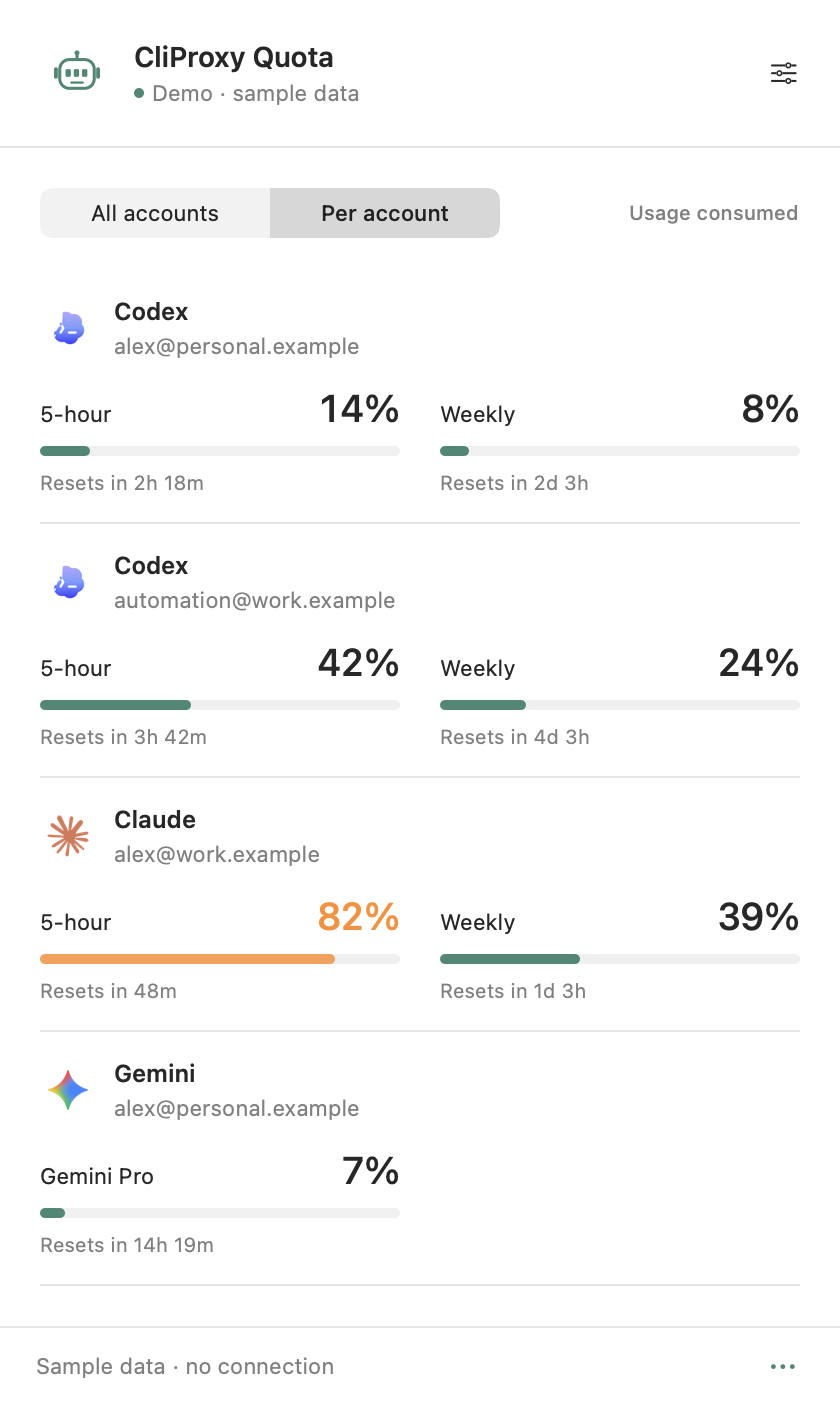
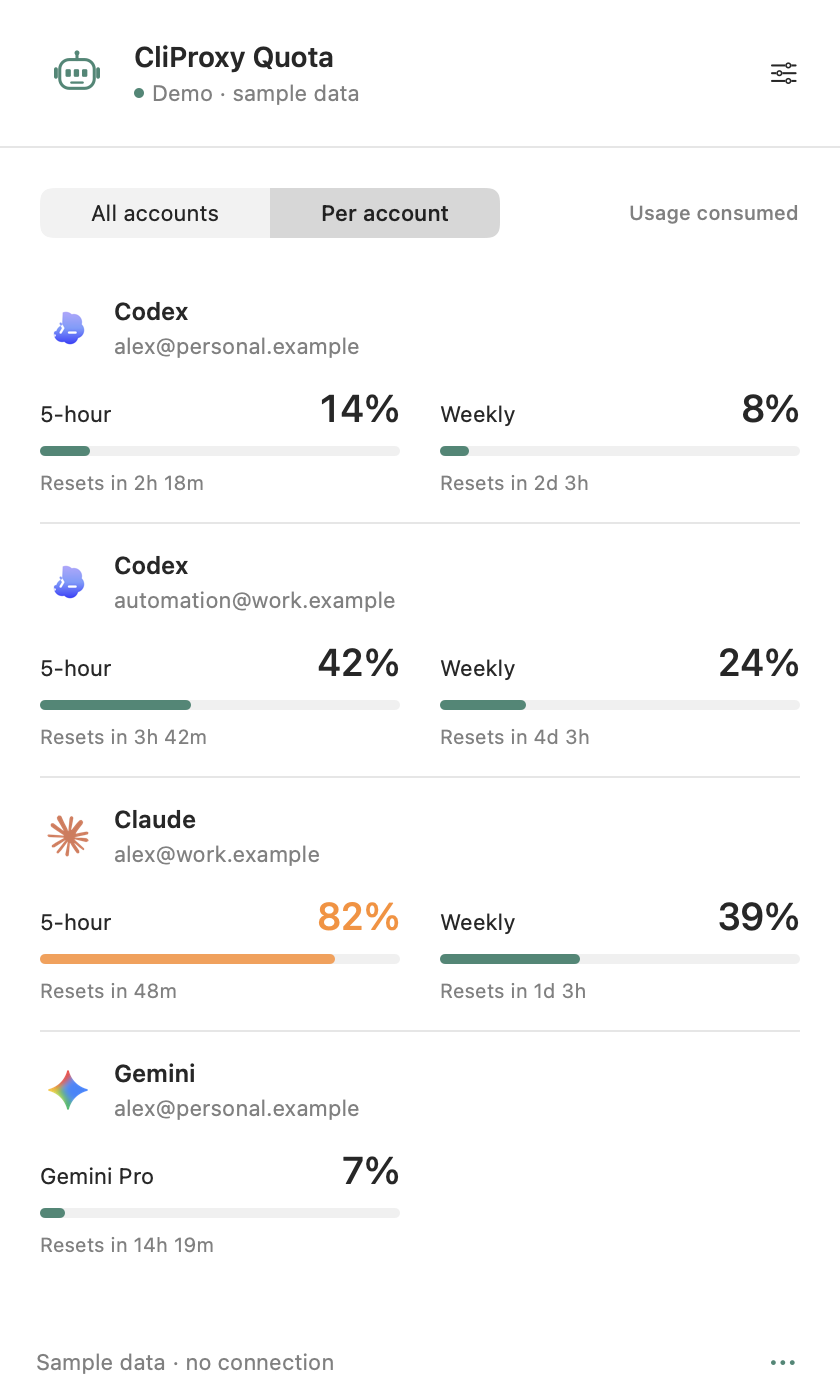
Remove trailing dividers from quota account views

diff --git a/Sources/CliProxyQuota/Views.swift b/Sources/CliProxyQuota/Views.swift
@@ -29,7 +29,7 @@ struct QuotaPopover: View {
             }
             .frame(height: viewportHeight)
             .scrollDisabled(contentHeight <= viewportHeight + 0.5)
-            Divider()
+            if store.showSettings { Divider() }
             footer
         }
         .frame(width: 420)
@@ -131,7 +131,7 @@ struct QuotaPopover: View {
                     }
                     QuotaMetrics(windows: q.windows, mode: store.percentageMode)
                 }.padding(.vertical, 13)
-                Divider()
+                if q.id != store.quotas.last?.id { Divider() }
             }
         }
     }
